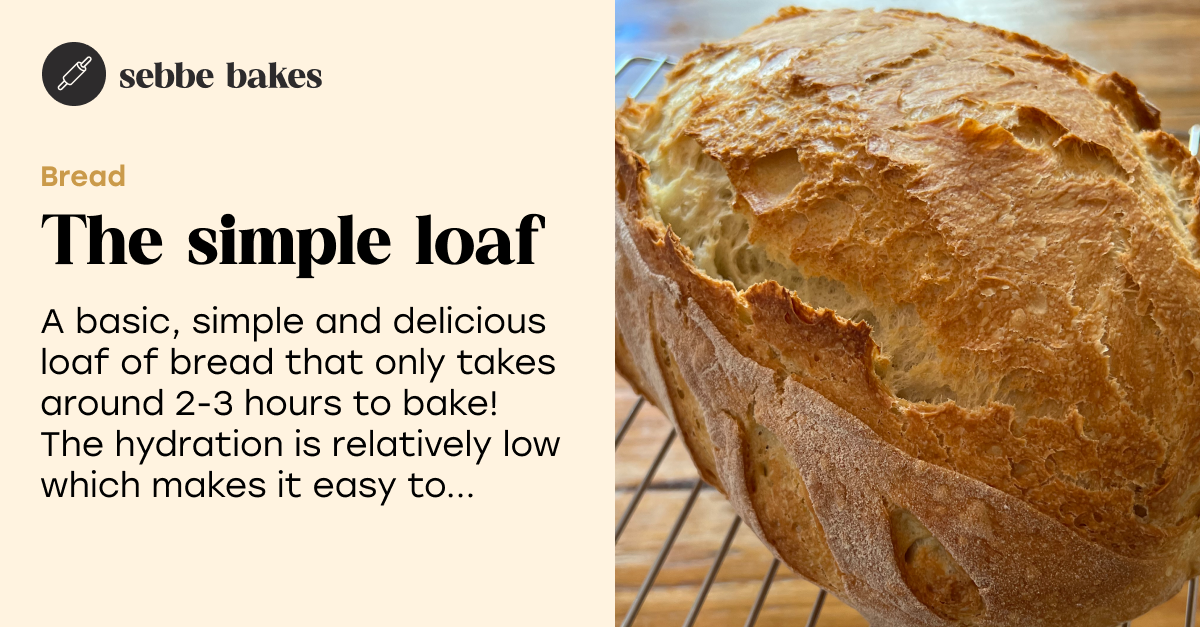
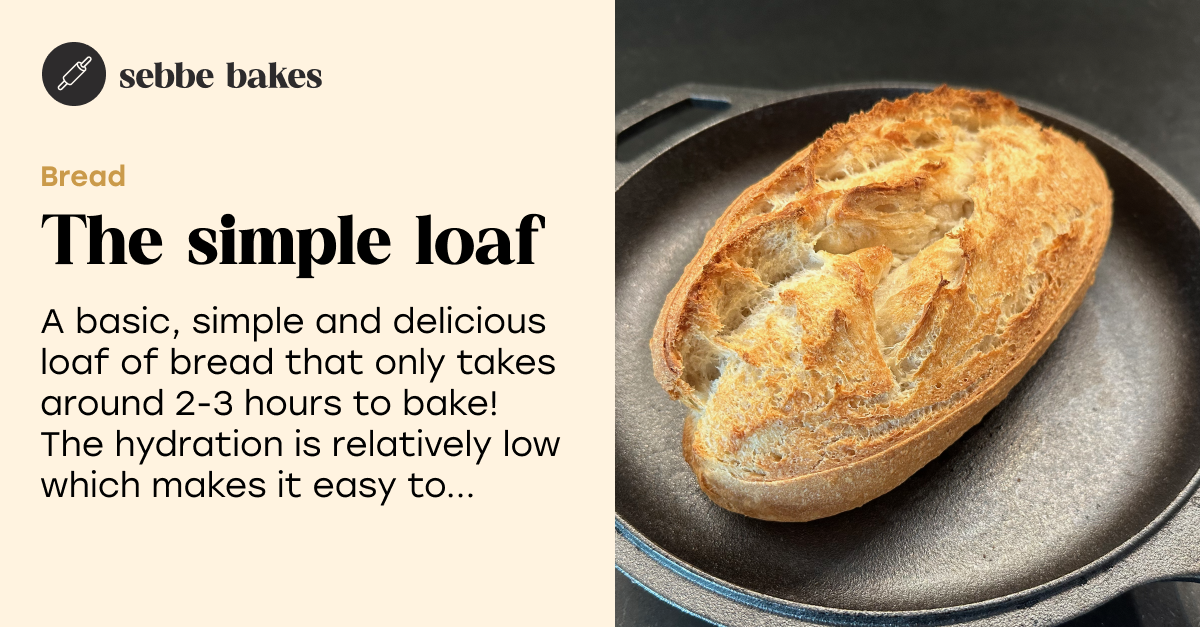
Update simple loaf images

diff --git a/constants/recipes.ts b/constants/recipes.ts
@@ -169,10 +169,10 @@ export const RECIPES: Recipe[] = [
     url: "/bread/the-simple-loaf",
     category: CATEGORIES.bread,
     thumbnails: {
-      hero: require("../public/images/bread/the-simple-loaf/thumbnails/hero.jpg"),
-      tall: require("../public/images/bread/the-simple-loaf/thumbnails/tall.jpg"),
-      wide: require("../public/images/bread/the-simple-loaf/thumbnails/wide.jpg"),
-      square: require("../public/images/bread/the-simple-loaf/thumbnails/square.jpg"),
+      hero: require("../public/images/bread/the-simple-loaf/thumbnails/hero.png"),
+      tall: require("../public/images/bread/the-simple-loaf/thumbnails/tall.png"),
+      wide: require("../public/images/bread/the-simple-loaf/thumbnails/wide.png"),
+      square: require("../public/images/bread/the-simple-loaf/thumbnails/square.png"),
       meta: require("../public/images/bread/the-simple-loaf/thumbnails/meta.png"),
     },
     description:

diff --git a/pages/bread/the-simple-loaf.tsx b/pages/bread/the-simple-loaf.tsx
@@ -8,9 +8,11 @@ import Ingredients from "components/Ingredients";
 import WindowPaneTest from "components/WindowPaneTest";
 import PokeTest from "components/PokeTest";
 
-import heroImage from "public/images/bread/the-simple-loaf/thumbnails/tall.jpg";
+import heroImage from "public/images/bread/the-simple-loaf/thumbnails/tall.png";
 import metaImage from "public/images/bread/the-simple-loaf/thumbnails/meta.png";
+import image1 from "public/images/bread/the-simple-loaf/1.png";
 import Method from "components/Method";
+import MethodImage from "components/MethodImage";
 
 const INGREDIENTS = [
   {
@@ -105,7 +107,7 @@ const STEPS = [
   <Text>
     Bake for <b>20 more minutes</b> until the crust is golden brown
   </Text>,
-  <Text>
+  <Text extra={<MethodImage src={image1} alt="" />}>
     All done, take out the bread from the oven and place it on a cooling rack.
     Let it rest for at least <b>30 minutes</b>
   </Text>,
